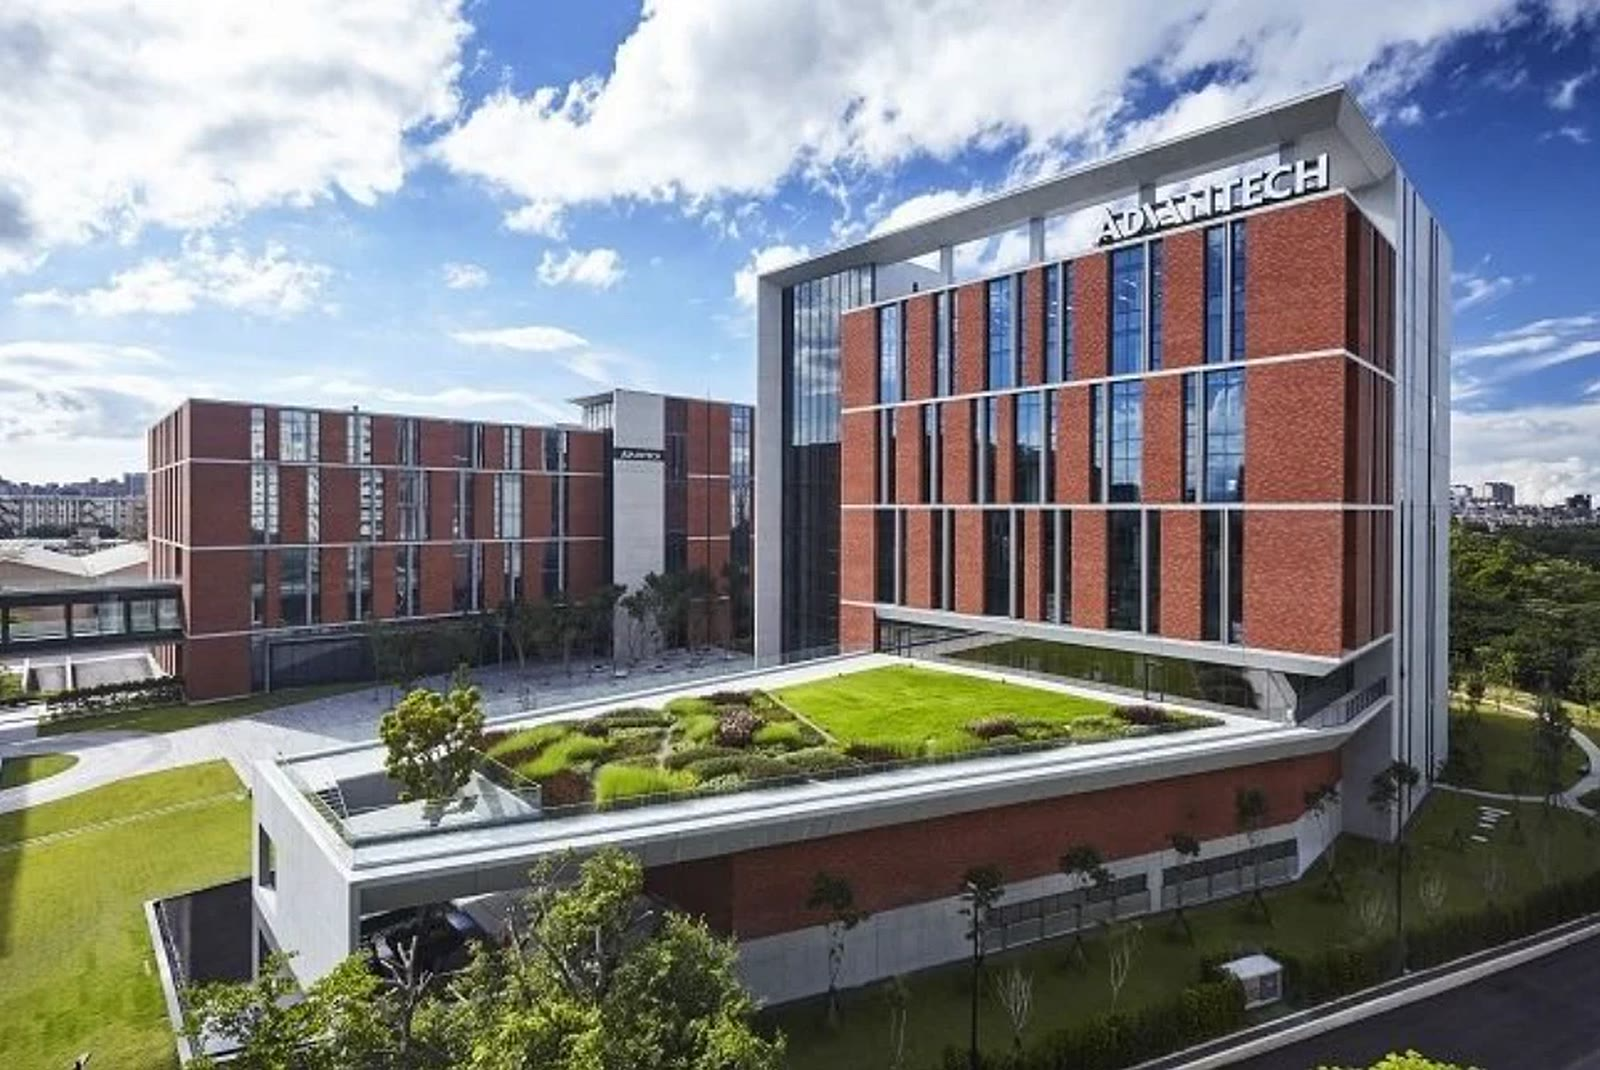
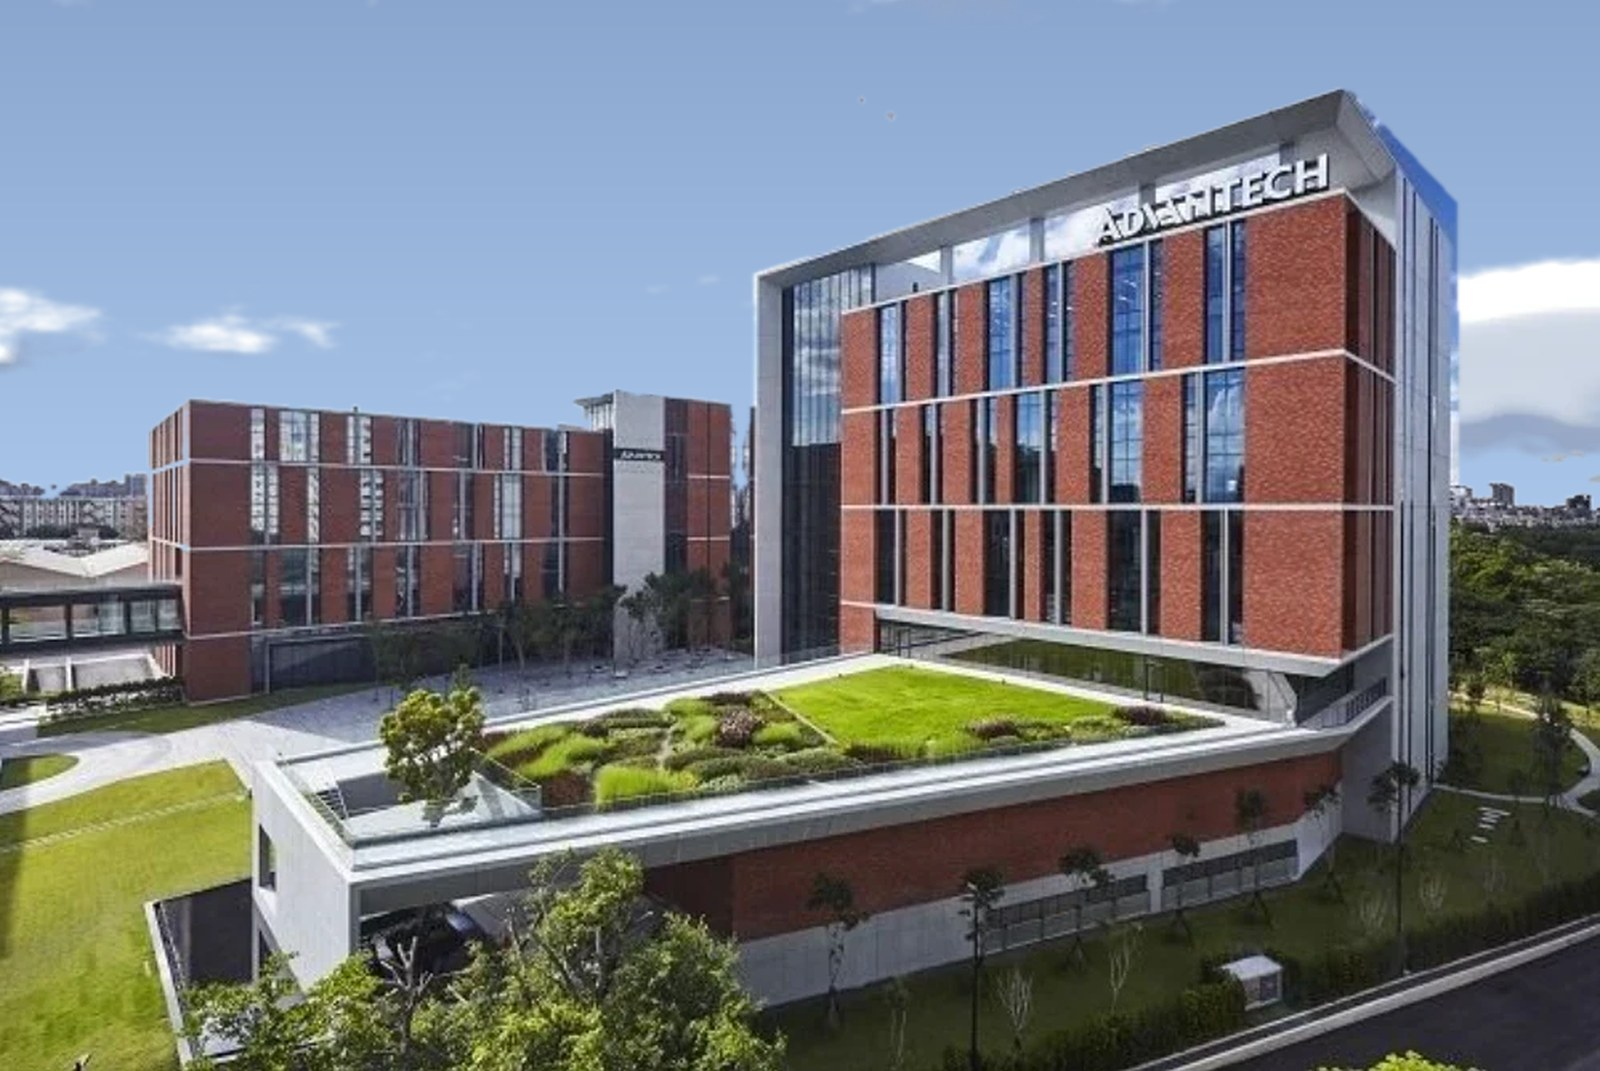
Advantech poster: living sky with clouds and birds, less crop
The sky is cut out of the photo (colour mask, cleaned by hand) and
replaced by a living one: two layers of generated, tileable clouds drift
behind the buildings at different speeds, a small flock flies across
and cloud shadows slide over the facades. The portrait cover now shows
nearly the whole photo with open sky above it; the stills are rendered
from the same layers, so the first frame matches them.

Claude-Session: https://claude.ai/code/session_01FcY32FwxGps96tgjnhRKCv

Changed region(s): [[0.0, 0.0, 1.0, 0.4935]]

diff --git a/src/components/living-cover/AdvantechSky.tsx b/src/components/living-cover/AdvantechSky.tsx
@@ -1,0 +1,89 @@
+"use client";
+
+import { useId } from "react";
+import s from "./AdvantechSky.module.css";
+
+/**
+ * Advantech internship cover: the building photo with its sky cut out
+ * (advantech-ground.webp) in front of a living sky. Two layers of clouds
+ * drift past at different speeds, behind the buildings; a small flock of
+ * birds crosses now and then; cloud shadows slide over the facades.
+ *
+ * Everything is laid out in the photo's own pixel coordinates (998 × 668),
+ * shared with the script that rendered the stills (advantech-1.jpg and
+ * advantech-hero.jpg), so the first frame matches them exactly.
+ * `portrait` shows nearly the whole photo with extra sky above it (3:4);
+ * `wide` shows the photo as is.
+ */
+
+const VIEW = { portrait: "110 -497 880 1165", wide: "0 0 998 668" };
+// Sky gradient (sampled from the photo's own blue), from the top of the
+// extended sky down to the horizon.
+// (k^0.8 easing, the same curve the stills were rendered with.)
+const SKY_STOPS: [number, string][] = [[0, "#516899"], [0.25, "#6e87b4"], [0.5, "#849ec7"], [0.75, "#97b3d9"], [1, "#a9c6e9"]];
+const TILE = 1400;
+
+const BIRDS = [
+  { x: 0, y: 0, s: 1, d: 0 },
+  { x: -34, y: 14, s: 0.85, d: 0.15 },
+  { x: -22, y: -16, s: 0.8, d: 0.3 },
+  { x: -60, y: 26, s: 0.7, d: 0.1 },
+  { x: -70, y: -4, s: 0.75, d: 0.4 },
+];
+
+export function AdvantechSky({ variant }: { variant: "portrait" | "wide" }) {
+  // Unique per copy: the slider renders desktop and mobile copies, and a reference
+  // into a hidden (display: none) copy would not resolve.
+  const id = useId().replace(/:/g, "");
+  return (
+    <svg viewBox={VIEW[variant]} preserveAspectRatio="xMidYMid slice" className={s.root} aria-hidden="true">
+      <defs>
+        <linearGradient id={`adv-sky-${id}`} x1="0" y1="-479" x2="0" y2="330" gradientUnits="userSpaceOnUse">
+          {SKY_STOPS.map(([o, c]) => (
+            <stop key={o} offset={o} stopColor={c} />
+          ))}
+        </linearGradient>
+        {/* Shadows and light only fall on the buildings, not the sky. */}
+        <mask id={`adv-ground-${id}`} style={{ maskType: "alpha" }}>
+          <image href="/projects/advantech-ground.webp" width="998" height="668" />
+        </mask>
+        <radialGradient id={`adv-shadow-${id}`}>
+          <stop offset="0" stopColor="#0a1428" stopOpacity="0.38" />
+          <stop offset="1" stopColor="#0a1428" stopOpacity="0" />
+        </radialGradient>
+      </defs>
+
+      <rect x="-200" y="-600" width="1400" height="1400" fill={`url(#adv-sky-${id})`} />
+
+      {/* Far clouds: small and flat near the horizon, slow. Two tiles side by side loop seamlessly. */}
+      <g className={s.drift} style={{ animationDuration: "220s" }}>
+        <image href="/projects/advantech-clouds-far.webp" x="0" y="110" width={TILE} height="260" />
+        <image href="/projects/advantech-clouds-far.webp" x={TILE} y="110" width={TILE} height="260" />
+      </g>
+      {/* Near clouds: big, high, faster. */}
+      <g className={s.drift} style={{ animationDuration: "120s" }}>
+        <image href="/projects/advantech-clouds-near.webp" x="0" y="-470" width={TILE} height="620" />
+        <image href="/projects/advantech-clouds-near.webp" x={TILE} y="-470" width={TILE} height="620" />
+      </g>
+
+      {/* A small flock crossing the sky every so often. */}
+      <g className={s.flock}>
+        {BIRDS.map((b, i) => (
+          <g key={i} transform={`translate(${b.x} ${b.y}) scale(${b.s})`}>
+            <g className={s.bob} style={{ animationDelay: `${-b.d * 3}s` }}>
+              <path className={s.wings} style={{ animationDelay: `${-b.d}s` }} d="M-9 0 Q-5 -5 0 0 Q5 -5 9 0" fill="none" stroke="#1d2433" strokeWidth="1.6" strokeLinecap="round" strokeLinejoin="round" />
+            </g>
+          </g>
+        ))}
+      </g>
+
+      <image href="/projects/advantech-ground.webp" width="998" height="668" />
+
+      {/* Cloud shadows passing over the buildings. */}
+      <g mask={`url(#adv-ground-${id})`} style={{ mixBlendMode: "multiply" }}>
+        <ellipse className={s.shadow} cx="0" cy="260" rx="260" ry="150" fill={`url(#adv-shadow-${id})`} style={{ animationDuration: "48s", animationDelay: "-30s" }} />
+        <ellipse className={s.shadow} cx="0" cy="470" rx="320" ry="170" fill={`url(#adv-shadow-${id})`} style={{ animationDuration: "64s", animationDelay: "-8s" }} />
+      </g>
+    </svg>
+  );
+}

diff --git a/src/components/living-cover/AdvantechSky.module.css b/src/components/living-cover/AdvantechSky.module.css
@@ -1,0 +1,72 @@
+.root {
+  position: absolute;
+  inset: 0;
+  width: 100%;
+  height: 100%;
+  display: block;
+}
+
+/* Cloud layers: two 1400-unit tiles slide left by one tile, then repeat. */
+.drift {
+  animation: drift linear infinite;
+}
+@keyframes drift {
+  to {
+    transform: translateX(-1400px);
+  }
+}
+
+/* The flock enters on the left, crosses the sky slightly rising, and leaves on the right. */
+.flock {
+  /* Starts off-screen, so the first frame matches the still. */
+  animation: fly 26s linear infinite;
+}
+@keyframes fly {
+  0% {
+    transform: translate(-120px, 120px);
+  }
+  55% {
+    transform: translate(1120px, 30px);
+  }
+  100% {
+    transform: translate(1120px, 30px);
+  }
+}
+.bob {
+  animation: bob 2.6s ease-in-out infinite alternate;
+}
+@keyframes bob {
+  to {
+    transform: translateY(-6px);
+  }
+}
+/* Wing beats: the V flattens and folds. */
+.wings {
+  transform-box: fill-box;
+  transform-origin: center bottom;
+  animation: flap 0.45s ease-in-out infinite alternate;
+}
+@keyframes flap {
+  to {
+    transform: scaleY(-0.7);
+  }
+}
+
+/* Cloud shadows slide across the facades, the same way as the clouds. */
+.shadow {
+  animation: shadow linear infinite;
+}
+@keyframes shadow {
+  from {
+    transform: translateX(1400px);
+  }
+  to {
+    transform: translateX(-400px);
+  }
+}
+
+@media (prefers-reduced-motion: reduce) {
+  .root * {
+    animation: none !important;
+  }
+}

diff --git a/src/components/living-cover/HeroLiving.tsx b/src/components/living-cover/HeroLiving.tsx
@@ -6,7 +6,7 @@ import { CollageCover } from "./CollageCover";
 import { COLLAGE_LAYERS_WIDE } from "./collage-layers";
 import { HairWaveCover } from "./HairWaveCover";
 import { LayeredCover } from "./LayeredCover";
-import { SkyLife } from "./SkyLife";
+import { AdvantechSky } from "./AdvantechSky";
 import type { CoverMotion } from "@/data/projects";
 import s from "./LivingCover.module.css";
 
@@ -30,8 +30,7 @@ export function HeroLiving({ motion, wide, running }: { motion: CoverMotion; wid
   else if (motion === "collage") art = wide ? <CollageCover layers={COLLAGE_LAYERS_WIDE} viewBox="0 0 1600 1000" /> : portrait(<CollageCover />);
   else if (motion === "bloom") art = portrait(<BloomCover />);
   else if (motion === "lava") art = portrait(<LavaCover />);
-  // Only the light moves over the hero's own photo (portrait or wide), so no photo here.
-  else if (motion === "sky") art = <SkyLife />;
+  else if (motion === "sky") art = <AdvantechSky variant={wide ? "wide" : "portrait"} />;
   if (!art) return null;
   return (
     <div className={s.root} data-active="" data-paused={running ? undefined : ""} aria-hidden="true">

diff --git a/src/components/living-cover/LivingCover.tsx b/src/components/living-cover/LivingCover.tsx
@@ -6,7 +6,7 @@ import { BloomCover, DriftCover, LavaCover, RippleCover, TracksCover, TypingCove
 import { CardCover, DuskBloomCover, EmberCover, GridCover, NightTracksCover, PlaybackCover, RingsCover, RouteCover, WaveCover } from "./art-more";
 import { HillsCover, LoadedCover } from "./art-madrid";
 import { FlagWave } from "./FlagWave";
-import { SkyLife } from "./SkyLife";
+import { AdvantechSky } from "./AdvantechSky";
 import { CollageCover } from "./CollageCover";
 import { HairWaveCover } from "./HairWaveCover";
 import { LayeredCover } from "./LayeredCover";
@@ -74,7 +74,7 @@ export function LivingCover({ motion, src, active }: Props) {
       {motion === "ai-page" && <LayeredCover layers={AI_PAGE} bg={AI_BG} grain={AI_GRAIN} />}
       {motion === "hills" && <HillsCover />}
       {motion === "loaded" && <LoadedCover />}
-      {motion === "sky" && <SkyLife src={src} />}
+      {motion === "sky" && <AdvantechSky variant="portrait" />}
       {/* Live 3D: only mounted while its cover is the active one (one WebGL scene at a time). */}
       {motion === "head3d" && active && <CorsaStage paused={!running} />}
     </div>

diff --git a/src/data/projects.ts b/src/data/projects.ts
@@ -117,7 +117,7 @@ export type Signature =
  *   voice  – live waveform bars, glow pulsing with the sound (dating-app-1)
  *   ripple – rings rippling out from a pulsing centre         (corsa-car-audio-1)
  *   bloom  – a turning flower whose petals breathe open      (bloom-1)
- *   sky    – clouds, their shadows and a glint of sun over a building photo (advantech-1)
+ *   sky    – clouds and birds drifting behind the Advantech building (advantech-1)
  * They only match those exact covers. With your own cover image, use
  *   drift  – slow zoom and pan over whatever image is set
  * or leave it out for a still cover.
